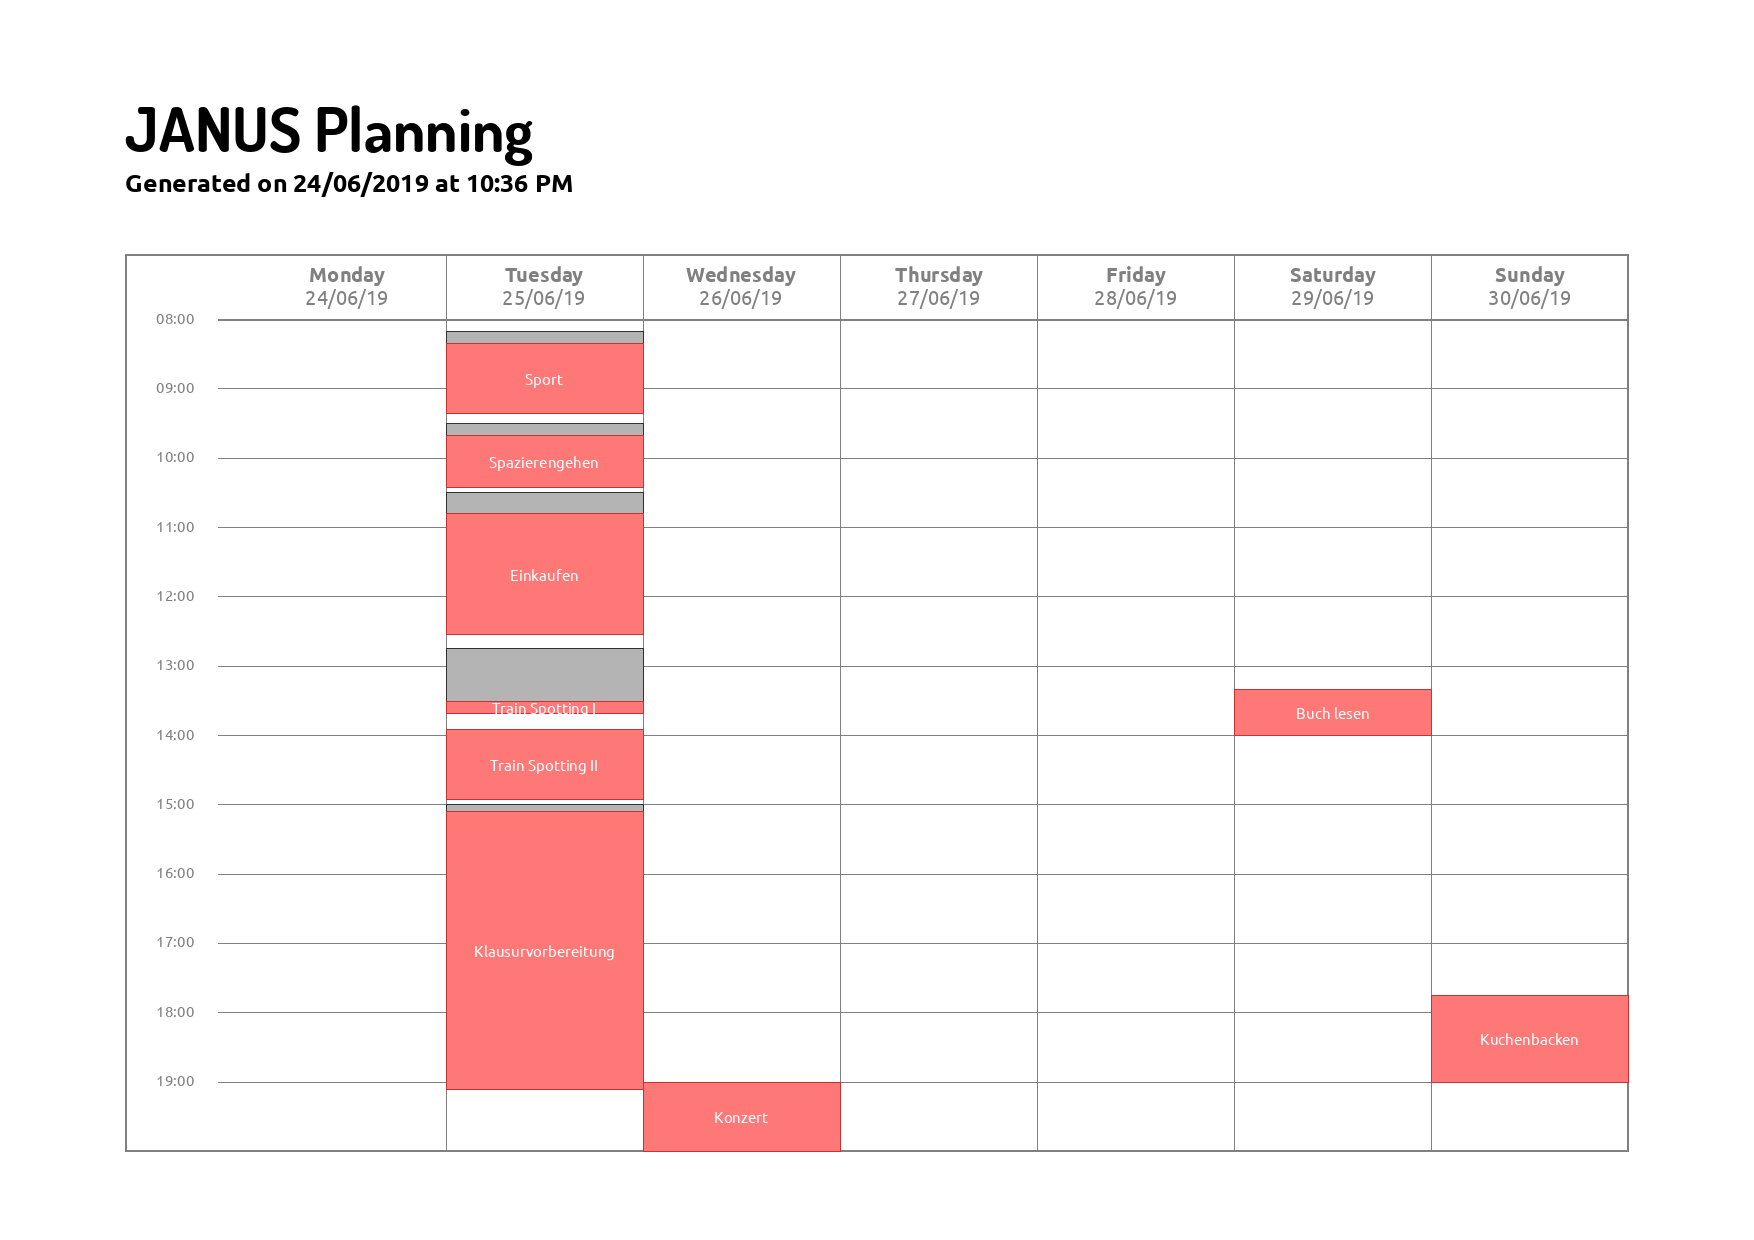
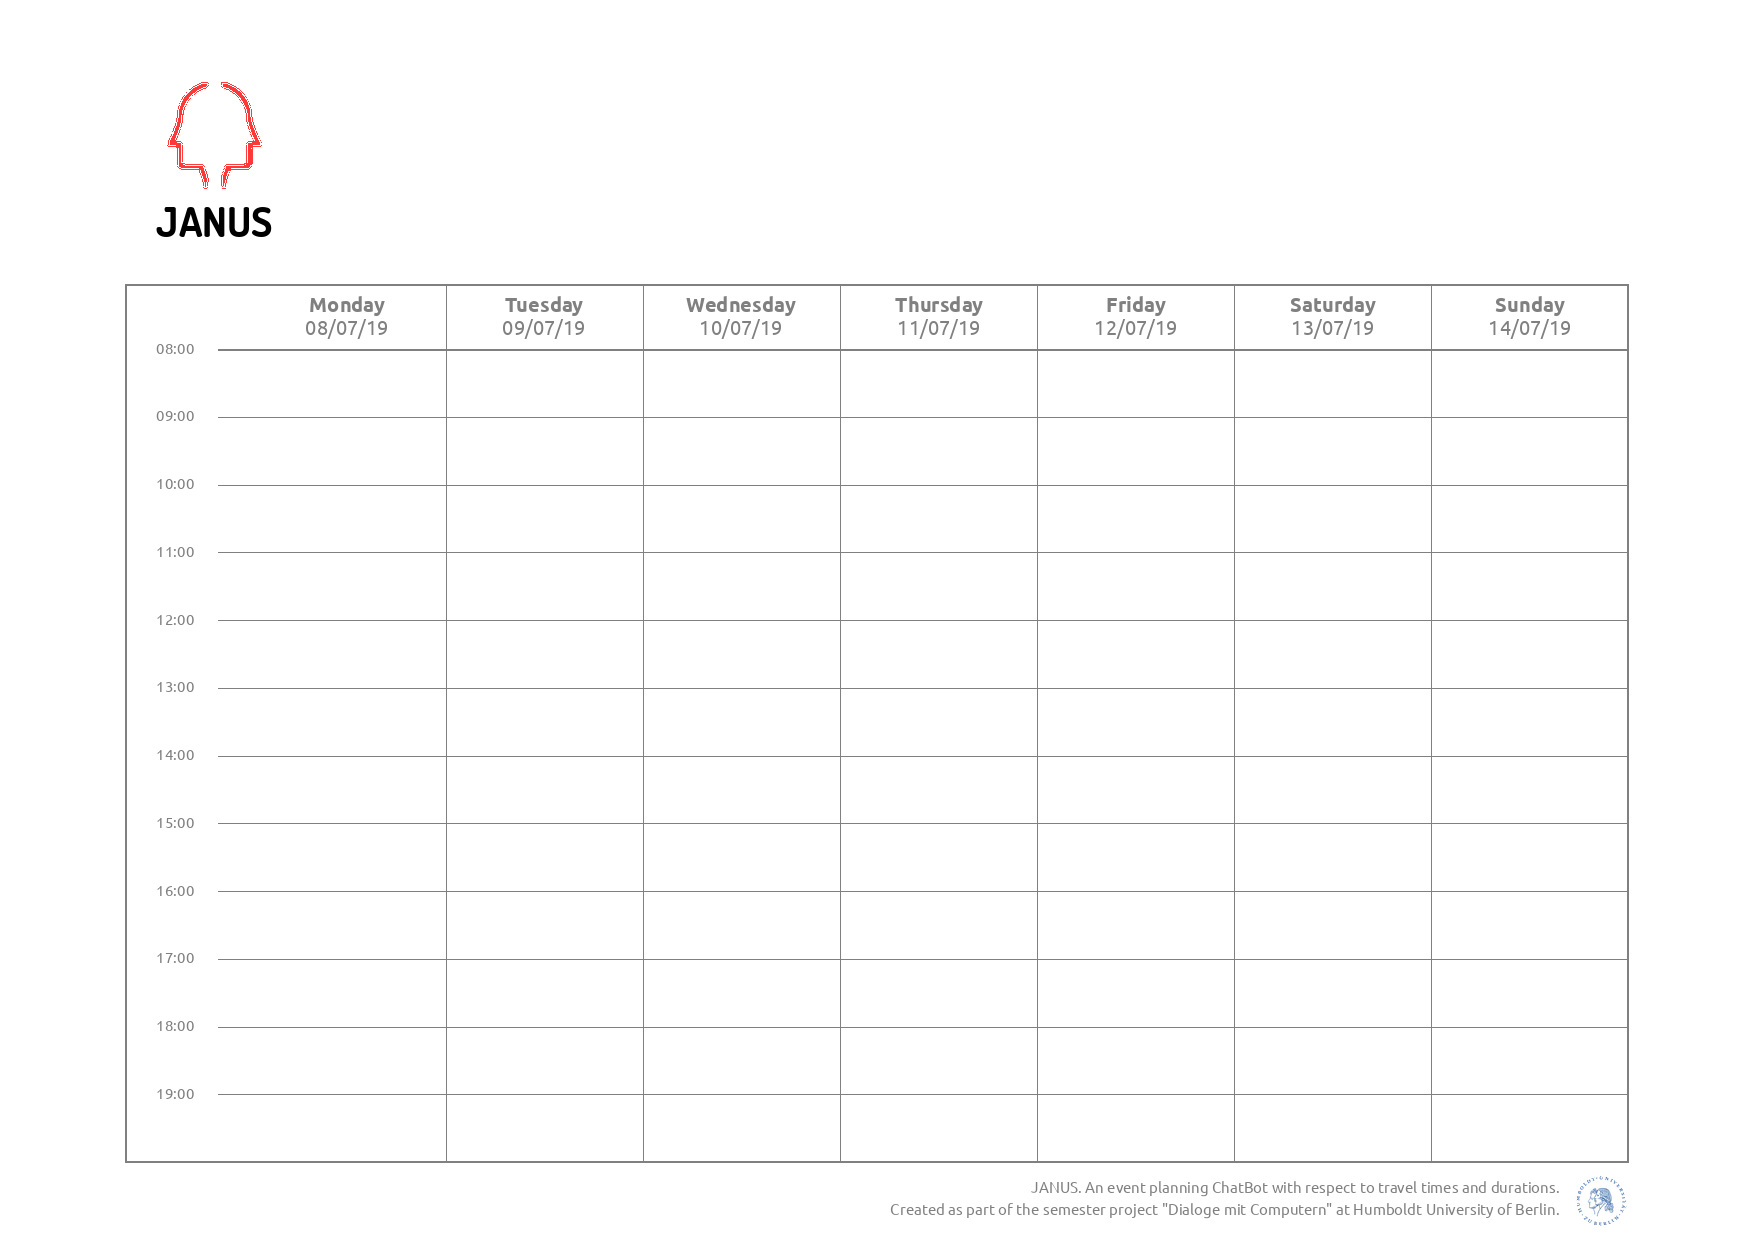
remade schedule layout

diff --git a/planner/plannertoimage.py b/planner/plannertoimage.py
@@ -9,19 +9,25 @@ class PlannerToImage():
     __WIDTH     = 1754
     __HEIGHT    = 1240
 
+    bot_name = "JANUS"
+    additional_info_text = [
+        bot_name+". An event planning ChatBot with respect to travel times and durations.",
+        "Created as part of the semester project \"Dialoge mit Computern\" at Humboldt University of Berlin."
+    ]
+
     def __init__(self, planner, day):
         self.__planner      = planner
         self.__first_day    = self.__get_monday(day)
         self.__time_start   = planner.get_time_begin_day()
         self.__time_end     = planner.get_time_end_day()
-        path = os.path.dirname(__file__)
-        self.__header_font      = ImageFont.truetype(path+"/Dosis-Bold.ttf", size=int(PlannerToImage.__HEIGHT/20))
-        self.__subtitle_font    = ImageFont.truetype("Ubuntu-B.ttf", size=int(PlannerToImage.__HEIGHT/49.6))
-        self.__top_font         = ImageFont.truetype("Ubuntu-B.ttf", size=int(PlannerToImage.__HEIGHT/60))
-        self.__top_font_R       = ImageFont.truetype("Ubuntu-R.ttf", size=int(PlannerToImage.__HEIGHT/60))
-        self.__regular_font     = ImageFont.truetype("Ubuntu-R.ttf", size=int(PlannerToImage.__HEIGHT/82))
-        self.__event_name_font  = ImageFont.truetype("Ubuntu-R.ttf", size=int(PlannerToImage.__HEIGHT/82))
-        self.__time_font        = ImageFont.truetype("Ubuntu-R.ttf", size=int(PlannerToImage.__HEIGHT/82))
+        self.__path         = os.path.dirname(__file__)
+        self.__header_font      = ImageFont.truetype(self.__path+"/../assets/fonts/Dosis-Bold.ttf", size=int(PlannerToImage.__HEIGHT/30))
+        self.__subtitle_font    = ImageFont.truetype(self.__path+"/../assets/fonts/Ubuntu-B.ttf", size=int(PlannerToImage.__HEIGHT/49.6))
+        self.__top_font         = ImageFont.truetype(self.__path+"/../assets/fonts/Ubuntu-B.ttf", size=int(PlannerToImage.__HEIGHT/60))
+        self.__top_font_R       = ImageFont.truetype(self.__path+"/../assets/fonts/Ubuntu-R.ttf", size=int(PlannerToImage.__HEIGHT/60))
+        self.__add_info_font    = ImageFont.truetype(self.__path+"/../assets/fonts/Ubuntu-R.ttf", size=int(PlannerToImage.__HEIGHT/82))
+        self.__event_name_font  = ImageFont.truetype(self.__path+"/../assets/fonts/Ubuntu-R.ttf", size=int(PlannerToImage.__HEIGHT/82))
+        self.__time_font        = ImageFont.truetype(self.__path+"/../assets/fonts/Ubuntu-R.ttf", size=int(PlannerToImage.__HEIGHT/82))
         self.__spaceing = PlannerToImage.__HEIGHT / 80
 
 
@@ -39,28 +45,90 @@ class PlannerToImage():
 
         self.img_left    = PlannerToImage.__WIDTH/14
         self.img_right   = PlannerToImage.__WIDTH - self.img_left
-        self.img_top     = PlannerToImage.__HEIGHT/14
+        self.img_top     = PlannerToImage.__HEIGHT/16
         self.img_bottom  = PlannerToImage.__HEIGHT - self.img_top
 
-        self.plan_top    = self.img_top + self.__header_font.getsize(".")[1] + 5*self.__spaceing + self.__subtitle_font.getsize(".")[1]
+        self.plan_top    = self.img_top + self.__header_font.getsize(PlannerToImage.bot_name)[0] + self.__header_font.getsize(PlannerToImage.bot_name)[1] + 3*self.__spaceing
 
-        now = dt.today()
-
-        draw.text((self.img_left,self.img_top), "JANUS Planning", font=self.__header_font, fill="black")
-        draw.text( (self.img_left,self.img_top + self.__header_font.getsize(".")[1] + self.__spaceing),
-            "Generated on " + now.strftime("%d/%m/%Y") + " at " + now.strftime("%I:%M %p"),
-            font=self.__subtitle_font, fill="black")
-
-        draw.rectangle([(self.img_left,self.plan_top), (self.img_right,self.img_bottom)],
-            fill="white", outline="gray", width=2)
-
+        self.__draw_header(img, draw)
         self.__draw_grid(draw)
         self.__draw_events(draw)
+        self.__draw_additional_infos(img, draw)
 
         img.save(file_name)
 
 
+    def __draw_header(self, img, draw):
+        logo_txt_w = int(self.__header_font.getsize(PlannerToImage.bot_name)[0])
+        logo_spaceing_left = 2*self.__spaceing
+
+        red_logo = Image.open(self.__path+"/../assets/images/logo_red_transparent.png")
+        red_logo = red_logo.resize((logo_txt_w, logo_txt_w), Image.ANTIALIAS)
+
+        pixel_data = red_logo.load()
+        if red_logo.mode == "RGBA":
+          for y in range(red_logo.size[1]):
+            for x in range(red_logo.size[0]):
+              if pixel_data[x, y][3] < 255:
+                pixel_data[x, y] = (255, 255, 255, 255)
+
+        img.paste(red_logo,
+            (int(self.img_left+logo_spaceing_left), int(self.img_top))
+        )
+
+        draw.text((self.img_left+logo_spaceing_left,self.img_top+logo_txt_w),
+            PlannerToImage.bot_name,
+            font=self.__header_font, fill="black")
+
+        #now = dt.today()
+        #draw.text( (self.img_left,self.img_top + self.__header_font.getsize(".")[1] + self.__spaceing),
+        #    "Generated on " + now.strftime("%d/%m/%Y") + " at " + now.strftime("%I:%M %p"),
+        #    font=self.__subtitle_font, fill="black")
+
+
+    def __draw_additional_infos(self, img, draw):
+        logo_size = int(0.7 *(PlannerToImage.__HEIGHT - self.img_bottom))
+
+        hu_logo = Image.open(self.__path+"/../assets/images/hu_logo.png")
+        hu_logo = hu_logo.resize((logo_size,logo_size), Image.ANTIALIAS)
+
+        pixel_data = hu_logo.load()
+        if hu_logo.mode == "RGBA":
+          for y in range(hu_logo.size[1]):
+            for x in range(hu_logo.size[0]):
+              if pixel_data[x, y][3] < 255:
+                pixel_data[x, y] = (255, 255, 255, 255)
+
+        hu_w, hu_h = hu_logo.size
+        bg_w, bg_h = img.size
+
+        logo_x = int(self.img_right-logo_size)
+        logo_y = int(self.img_bottom+(PlannerToImage.__HEIGHT - self.img_bottom)/2-logo_size/2)
+
+        img.paste(hu_logo,
+            (logo_x,logo_y)
+        )
+
+
+        for i in range(len(PlannerToImage.additional_info_text)):
+            txt = PlannerToImage.additional_info_text[i]
+            txt_w, txt_h = self.__add_info_font.getsize(txt)
+
+            line_h = txt_h+self.__spaceing/4
+            num_lines = len(PlannerToImage.additional_info_text)
+
+            xpos = self.img_right-logo_size-self.__spaceing-txt_w
+            ypos = logo_y+logo_size/2 + i*line_h - (num_lines*line_h)/2
+
+            draw.text( (xpos, ypos),
+                txt,
+                font=self.__add_info_font, fill="gray")
+
+
     def __draw_grid(self, draw):
+        draw.rectangle([(self.img_left,self.plan_top), (self.img_right,self.img_bottom)],
+            fill="white", outline="gray", width=2)
+
         self.events_top     = self.plan_top + 3*self.__spaceing + self.__top_font.getsize(".")[1]
         self.events_left    = self.img_left+6*self.__spaceing
 
